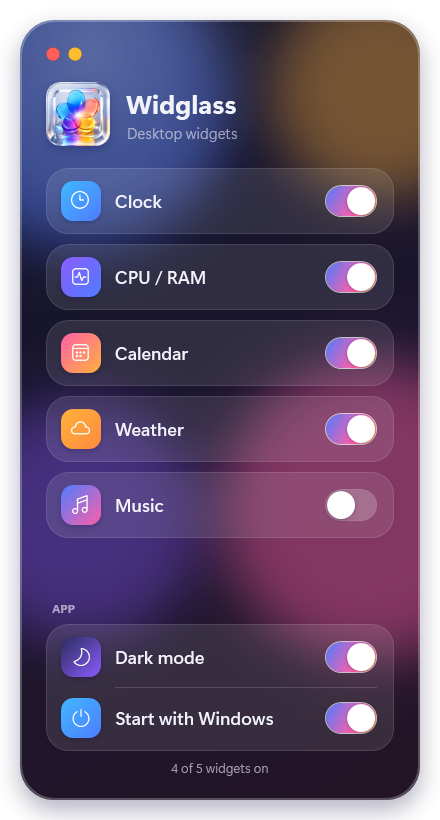
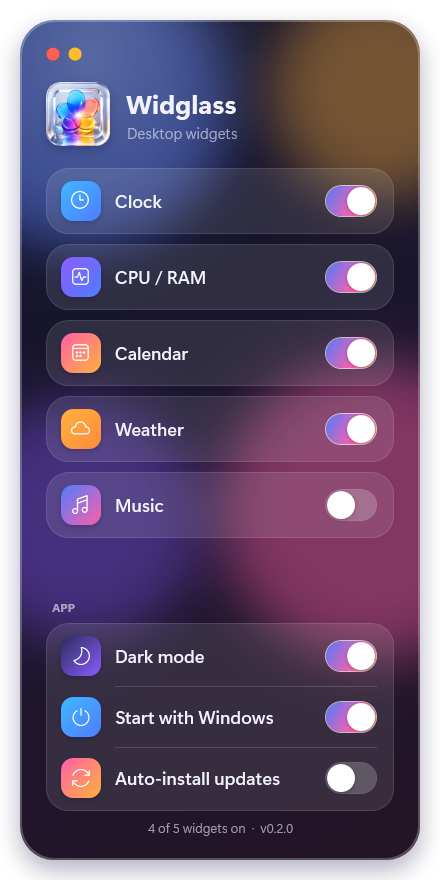
Widglass 0.2.0: current menu images, updates itself, latest version shown
The version next to the download button is read from the latest GitHub release when the page opens.

diff --git a/index.html b/index.html
@@ -47,6 +47,7 @@
               <li>Windows 10 &amp; 11</li>
               <li>Free</li>
               <li>Nothing else to install</li>
+              <li>Updates itself</li>
             </ul>
           </div>
         </div>
@@ -61,7 +62,7 @@
             View on GitHub
           </a>
         </div>
-        <p class="note">First time? If Windows says <em>"Windows protected your PC"</em>, click <strong>More info</strong> → <strong>Run anyway</strong>.</p>
+        <p class="note"><span data-latest="gigilucas/Widglass"></span>First time? If Windows says <em>"Windows protected your PC"</em>, click <strong>More info</strong> → <strong>Run anyway</strong>. After that, Widglass updates itself.</p>
 
         <div class="shots" data-shots>
           <img src="assets/widglass/widget-clock.png" data-dark="assets/widglass/widget-clock-dark.png" alt="Clock widget" loading="lazy">
@@ -79,7 +80,7 @@
             <li><b>Drag anywhere</b> Across screens, never cut off, never on top of each other.</li>
             <li><b>Music</b> Apple Music, YouTube Music and Spotify, with playback controls.</li>
             <li><b>Light &amp; dark</b> Frosted or smoked glass, in the colors of the logo.</li>
-            <li><b>Always ready</b> Starts with Windows and lives next to the clock.</li>
+            <li><b>Always up to date</b> Starts with Windows, lives next to the clock and updates itself with one click.</li>
           </ul>
         </div>
       </article>
@@ -120,6 +121,17 @@
       window.matchMedia('(prefers-color-scheme: dark)').addEventListener('change', syncShots);
       syncShots();
     })();
+
+    // "Version x.y.z · " next to each app, read from its latest GitHub release (nothing shown if it fails).
+    document.querySelectorAll('[data-latest]').forEach(function (el) {
+      fetch('https://api.github.com/repos/' + el.dataset.latest + '/releases/latest')
+        .then(function (r) { return r.ok ? r.json() : null; })
+        .then(function (release) {
+          if (release && release.tag_name)
+            el.innerHTML = '<strong>Version ' + release.tag_name.replace(/^v/i, '') + '</strong> · ';
+        })
+        .catch(function () {});
+    });
   </script>
 </body>
 </html>
